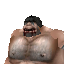
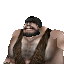
Give Autochess elementals and ogres original rank looks
Interchangeable original rigs (earth/lava/ice elementals, Gipat/Hadagan
ogres) are chosen per rank through ArenaAppearance.RANK_RACES; the combat
prototype, clips, speeds and reach stay unchanged. Portraits re-rendered
for families 15 and 22; RU/DE names from the original archives.

diff --git a/CHANGELOG.md b/CHANGELOG.md
@@ -7,6 +7,7 @@
 - Show Black Market traders under their own names instead of calling them all "Karansul". They share the record name "Trader", whose title belongs only to Karansul.
 - Limit Autochess creatures to a shared pool, as in Dota Underlords: 45, 30, 25, 20 and 10 copies of each creature for tiers 1–5. All nine companies' shops and armies draw from the same pool. Merged creatures keep all their copies, and selling a creature or eliminating a company returns them. The shop odds list each tier's pool size, and the creature inspector shows how many copies are left. Expeditions keep unlimited offers.
 - After a company is eliminated online, follow a company that is still playing, and don't place the eliminated company's old formation on its board.
+- Give Autochess elementals and ogres original looks as they gain stars. Elementals go from earth to lava to ice, and ogres gain a vest at two stars and become Hadagan sand ogres at three. These rigs share every animation, clip length, speed and reach, so combat is unchanged. Names, portraits and previews follow, and the earth and lava elemental names come from the original Russian and German texts.
 - Show wiki creatures in the colours they wear on the campaign maps, for example the black boar and the black unicorn, instead of their base models.
 
 ## 1.24.0 — 2026-10-22
